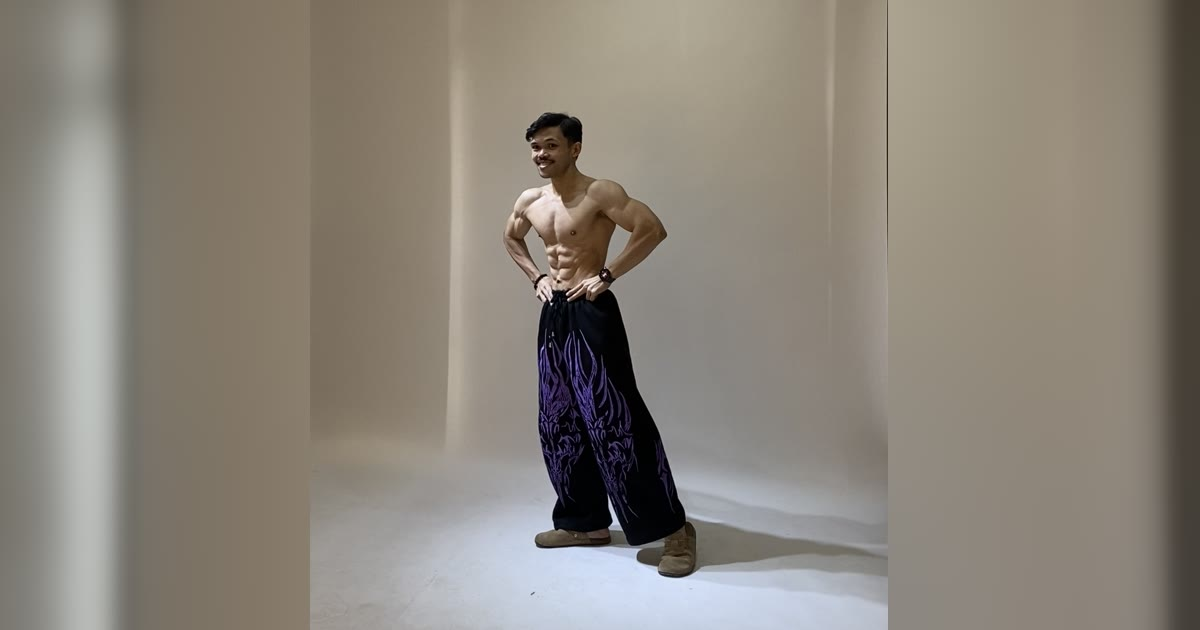
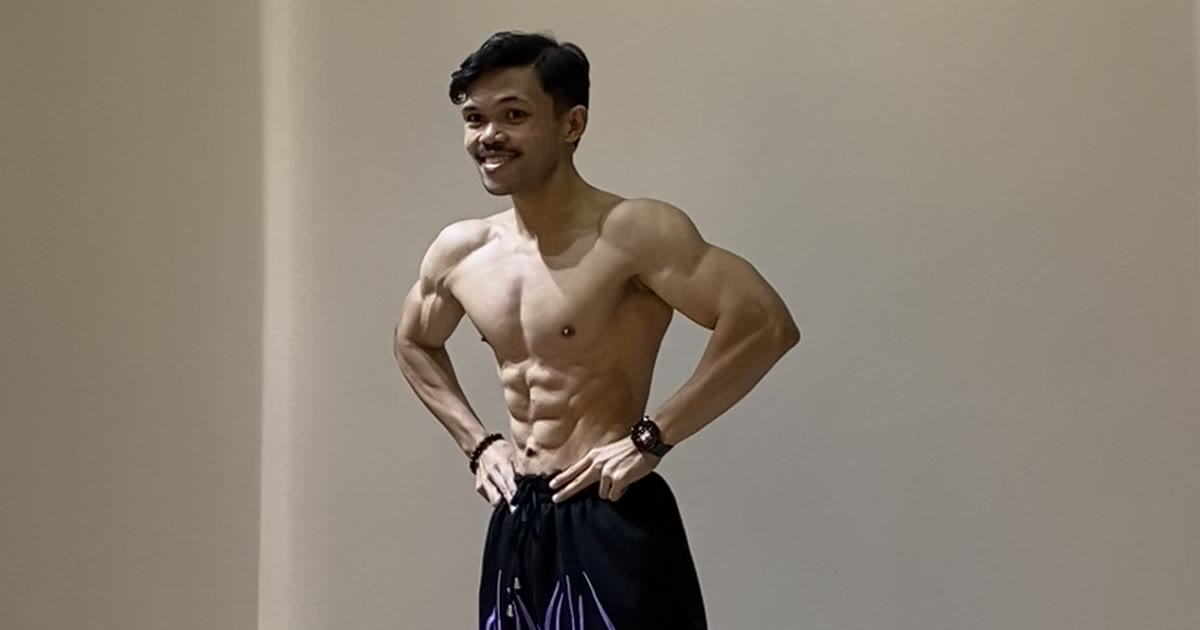
Link preview: zoom on face and abs; keep 'as low as'

diff --git a/index.html b/index.html
@@ -11,7 +11,7 @@
 <meta property="og:title" content="Narz — Online Coaching at Posing">
 <meta property="og:type" content="website">
 <meta property="og:url" content="https://naarrzz.github.io/coaching/">
-<meta property="og:image" content="https://naarrzz.github.io/coaching/og.jpg?v=2">
+<meta property="og:image" content="https://naarrzz.github.io/coaching/og.jpg?v=3">
 <meta property="og:image:width" content="1200">
 <meta property="og:image:height" content="630">
 <meta property="og:image:alt" content="Narz, natural bodybuilder, sa studio">
@@ -491,7 +491,7 @@ footer .big span{color:var(--accent)}
 </footer>
 
 <div class="dock" id="dock">
-  <p data-en="&lt;b&gt;Online coaching&lt;/b&gt;as low as ₱82 / day"><b>Online coaching</b>simula ₱82 / day</p>
+  <p><b>Online coaching</b>as low as ₱82 / day</p>
   <a class="btn" href="#apply" data-en="Apply">Mag-apply</a>
 </div>
 
